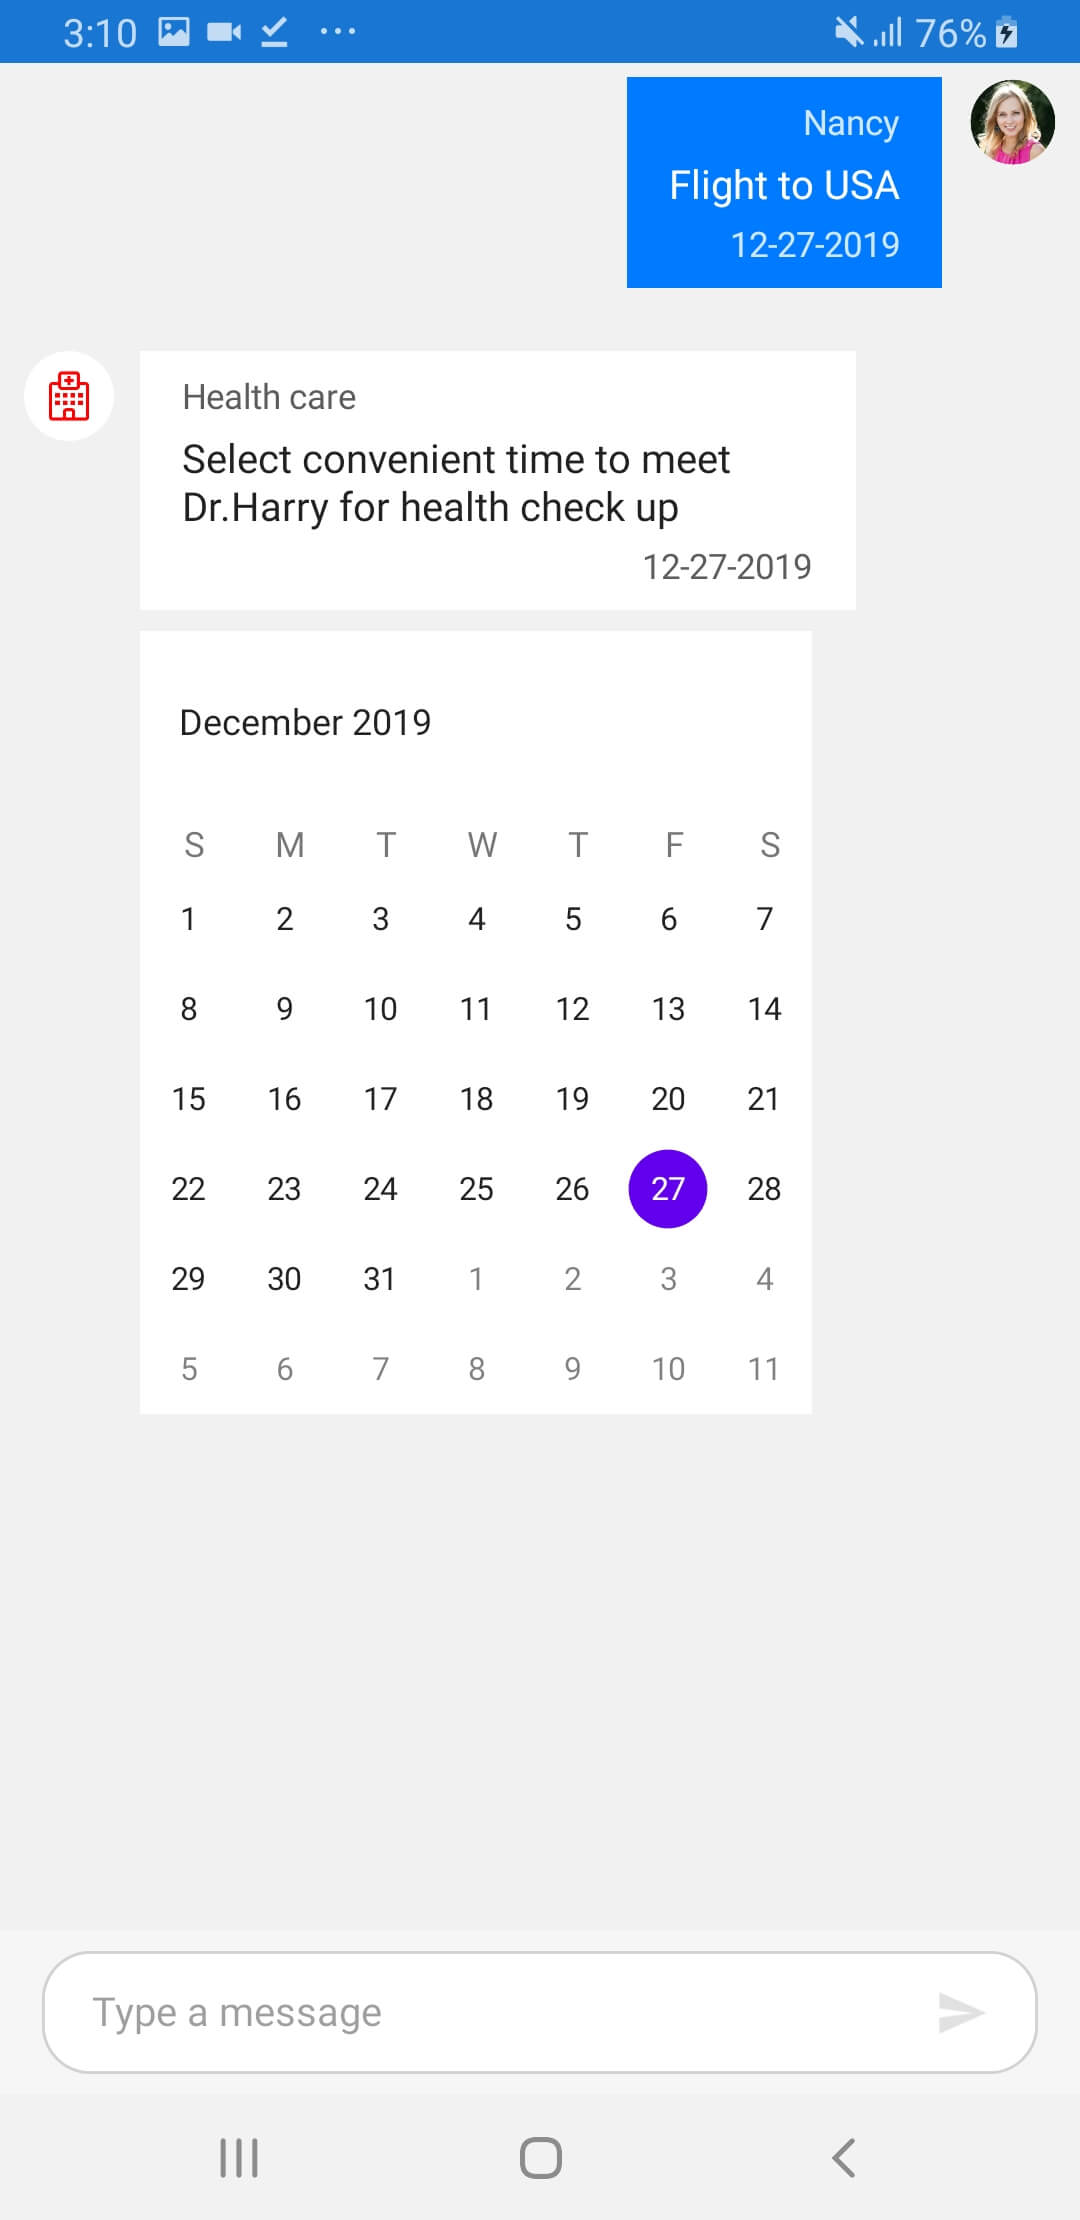
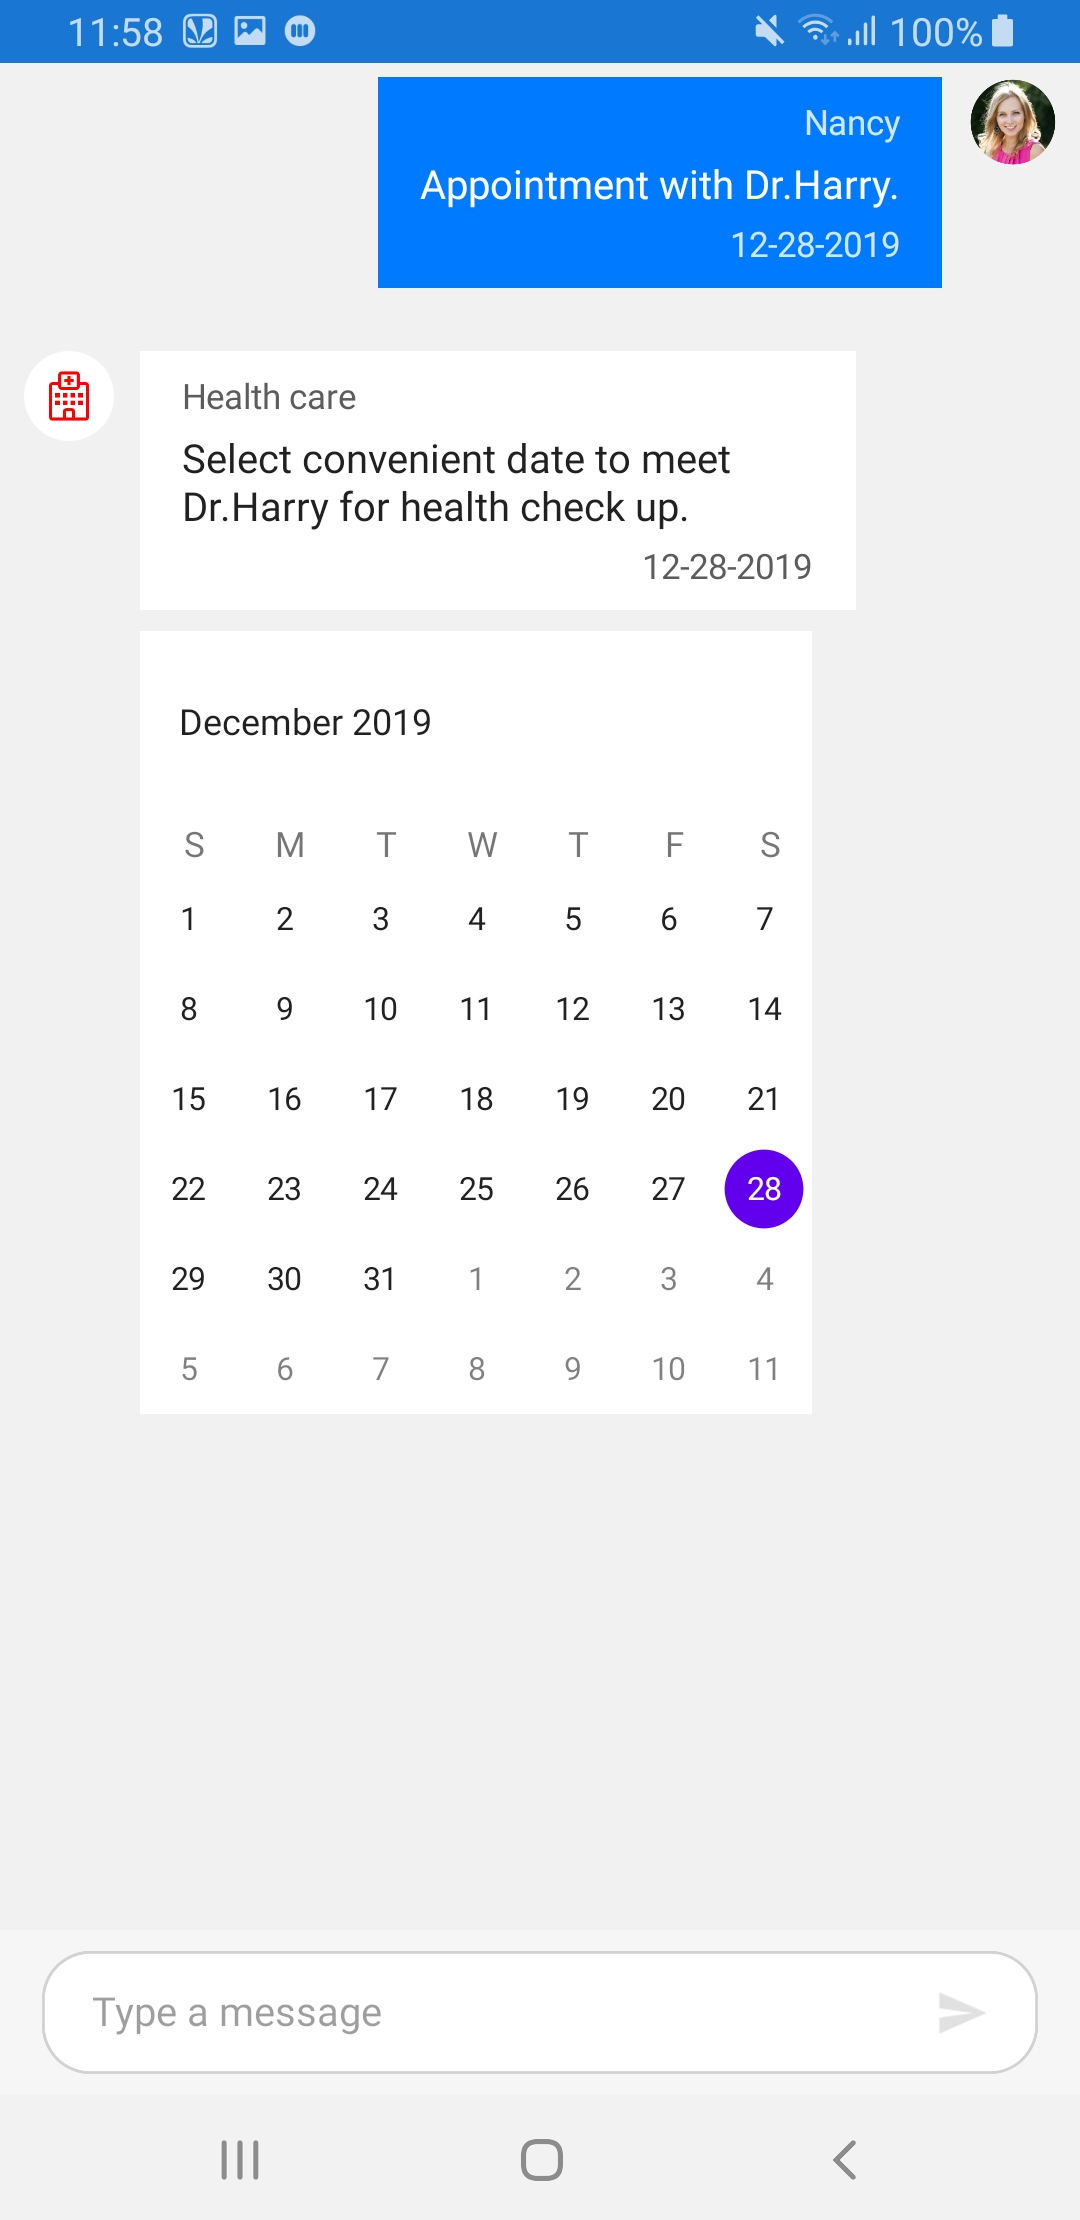
Corrected calendar image and time picker image content.

diff --git a/Xamarin/Chat/Messages.md b/Xamarin/Chat/Messages.md
@@ -532,7 +532,7 @@ public class GettingStartedViewModel : INotifyPropertyChanged
 
     public GettingStartedViewModel()
     {
-        this.Messages = new ObservableCollection<object>(;
+        this.Messages = new ObservableCollection<object>();
         this.CurrentUser = new Author() { Name = "Nancy",Avatar = "People_Circle16.png" };
         this.GenerateMessages();
     }
@@ -590,13 +590,13 @@ public class GettingStartedViewModel : INotifyPropertyChanged
         this.Messages.Add(new TextMessage()
         {
             Author = CurrentUser,
-            Text = "Flight to USA",
+            Text = "Consultation with Dr.Harry tomorrow.",
             ShowAvatar = true,
         });
 
         this.Messages.Add(new TimePickerMessage()
         {
-            Author = new Author() { Name = "Health care",Avatar = "Healthcare.png" },
+            Author = new Author() { Name = "Health care", Avatar = "Healthcare.png" },
             Text = "Select convenient time to meet Dr.Harry for health check up.",
             ShowAvatar = true,
             // Time picker display time.
@@ -742,14 +742,14 @@ public class GettingStartedViewModel : INotifyPropertyChanged
         this.Messages.Add(new TextMessage()
         {
             Author = CurrentUser,
-            Text = "Flight to USA",
+            Text = "Appointment with Dr.Harry.",
             ShowAvatar = true,
         });
 
         this.Messages.Add(new CalendarMessage()
         {
-            Author = new Author() { Name = "Health care", Avatar ="Healthcare.png" },
-            Text = "Select convenient time to meet Dr.Harry for health check up.",
+            Author = new Author() { Name = "Health care", Avatar = "Healthcare.png" },
+            Text = "Select convenient date to meet Dr.Harry for health check up.",
             ShowAvatar = true,
             SelectedDate = DateTime.Now,
         });
